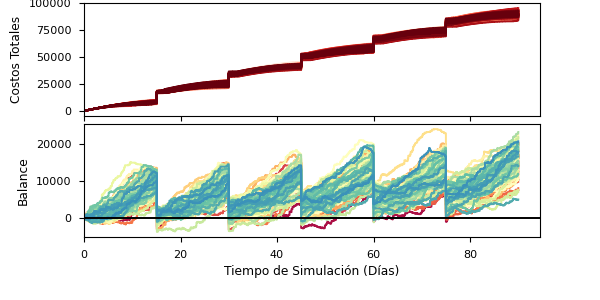
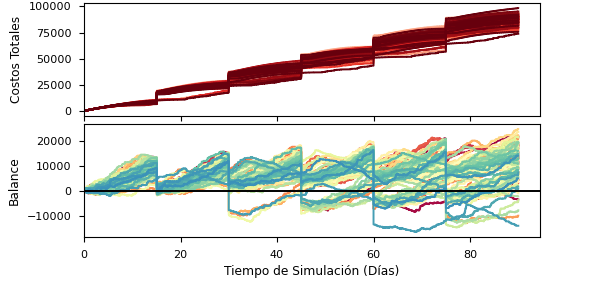
faltaba un if en hacer pedido

diff --git a/TP3/inventarioIteraciones.py b/TP3/inventarioIteraciones.py
@@ -43,7 +43,8 @@ def simulacion_inventario(env, min_inventario, max_inventario):
 def orden(env):
     global inventario, min_inventario, max_inventario
     while True:
-        env.process(hacer_orden(env, max_inventario))
+        if inventario < min_inventario:
+            env.process(hacer_orden(env, max_inventario))
         yield env.timeout(dias_entre_pedidos)
 
 
